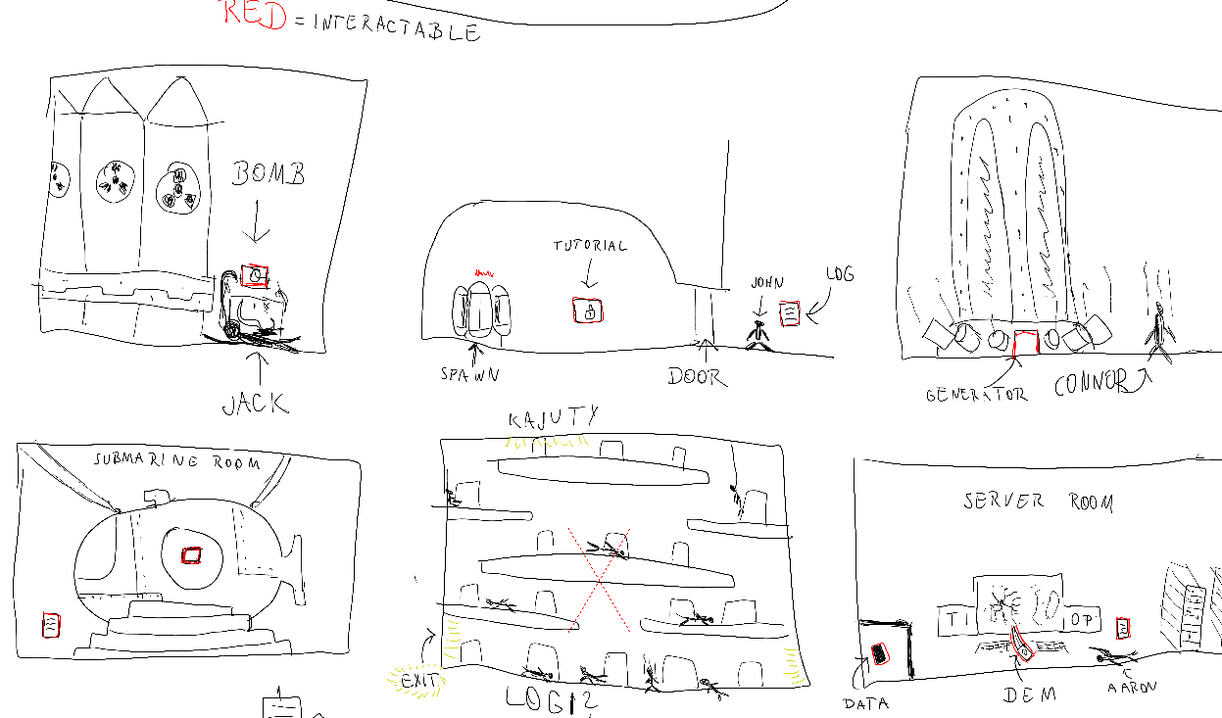
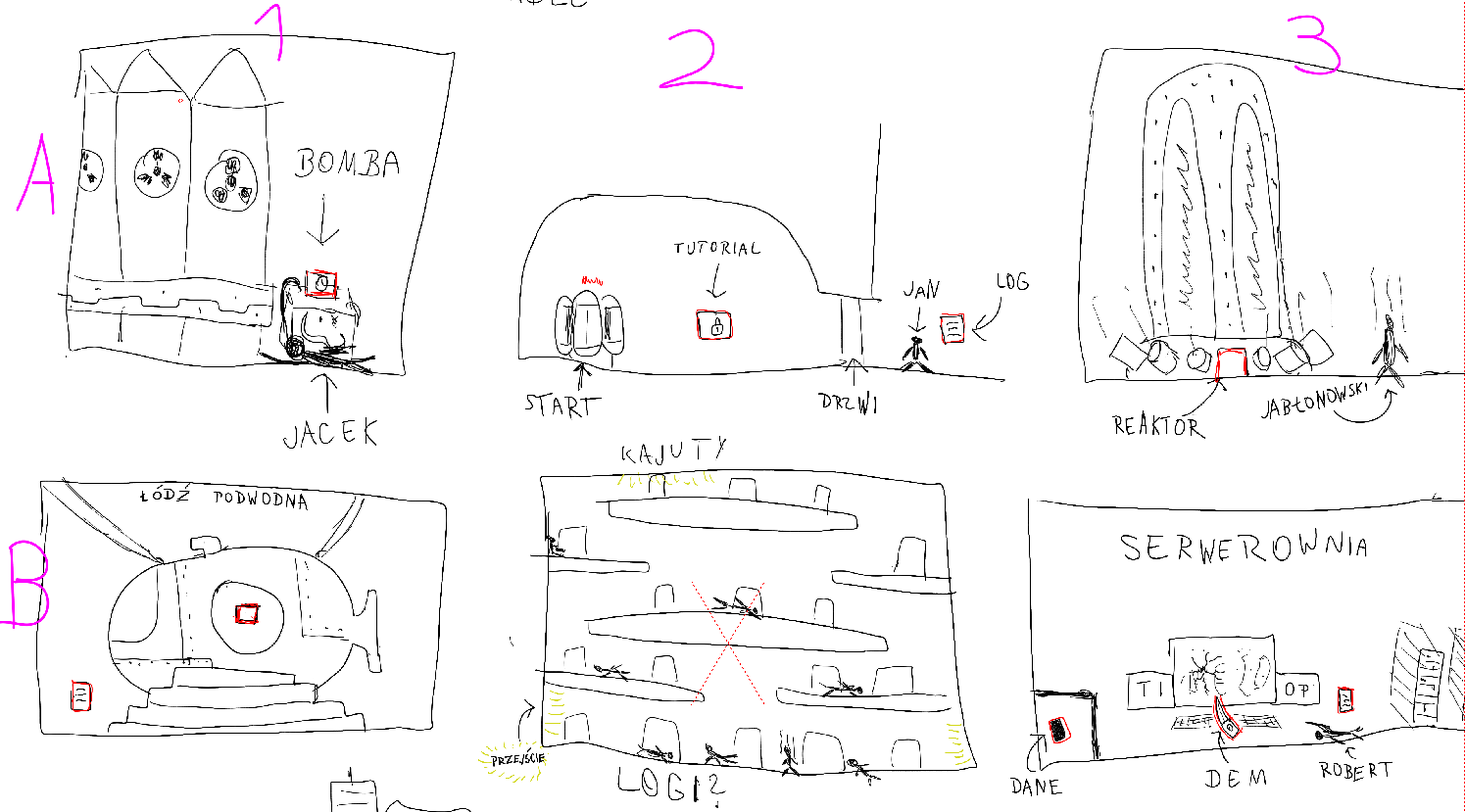
Update GDD

diff --git a/docs/Augmented Unit - GDD.md b/docs/Augmented Unit - GDD.md
@@ -13,16 +13,18 @@ Augmented Unit
 
 ### Gatunki
 
-Gra będzie pomieszaniem gatunków gier narracyjnych i metroidvanii.
-Gra narracyjna, bo silny nacisk będzie kładzony na fabułę i narrację środowiskową, z gatunku metroidvanii zapożyczona zostanie struktura poziomów i sposób postępu w grze.
+Gra będzie pomieszaniem gatunków gier narracyjnych i metroidvanii, w postaci dwuwymiarowej platformówki z widokiem od boku.
+Skupimy się na narracji (bezpośredniej w postaci logów i środowiskowej).
+Z metroidvanii zapożyczony zostanie sposób postępu — cała mapa będzie w teorii dostępna od samego początku, jednak dostanie się do niektórych sekcji, może wymagać wcześniejszego zebrania modyfikacji. Modyfikacje te permanentnie odblokują dla gracza umiejętności, które mogą pomóc dostać się we wcześniej niedostępne miejsca, nawet te widziane kilka sekcji wcześniej.
 
 ### Odbiorcy
 
-Docelową grupą odbiorców gry będą ludzie zaznajomieni z grami, w wieku około 16 do 30 lat, lub ludzie zainteresowani historiami opowiedzianymi nie wprost, z nutką niepokoju.
+Docelową grupą odbiorców gry będą ludzie zaznajomieni z grami, w wieku około 16 do 30 lat, zainteresowani historiami opowiedzianymi nie wprost, z nutką niepokoju.
 
 ### Plaforma i wymagania sprzętowe
 
 <!-- Wymagania pożyczone z gry dead cells - podobnej graficznie i poniekąd gameplay'owo do naszej gry -->
+Przewidywane wymagania sprzętowe, na podstawie wymagań podobnych tytułów:
 
 Aspekt | Minimalne: | Zalecane:
 ---|---|---
@@ -35,7 +37,11 @@ Dodatkowe uwagi | DirectX 9.1+ lub OpenGL 3.2+ | DirectX 9.1+ lub OpenGL 3.2+
 
 ### Monetyzacja
 
-Gra zostanie wypuszczona w modelu free-to-play (darmowa), aby zachęcić graczy do zagrania w nią i aby zdobyć odrobinę rozgłosu na rynku. Później mogą zostać wydane płatne dodatki do gry, które rozwiną grę o opcjonalne poziomy i poszerzą historię świata.
+Gra zostanie wypuszczona w modelu free-to-play (darmowa), aby zachęcić graczy do zagrania w nią i aby zdobyć odrobinę rozgłosu na rynku. Później mogą zostać wydane płatne dodatki do gry, które rozwiną ją o opcjonalne poziomy i poszerzą historię świata.
+
+### Repozytorium
+
+Aktualna wersja dokumentacji, jak i cały kod źródłowy gry są dostępne na GitHubie ([link do aktualnego GDD](https://github.com/Daxin18/AugmentedUnit/blob/main/docs/Augmented%20Unit%20-%20GDD.md))
 
 ## Tematyka i osadzenie gry
 
@@ -47,92 +53,92 @@ Z uwagi na gatunek gry (metroidvania) cały statek będzie jedną, dużą mapą,
 Sekcje, które będziemy mogli znaleźć w grze:
 Nazwa | Obowiązkowy | Modyfikacja | Logi | Opis
 ---|---|---|---|---
-Pokład statku | Y | krzyk | - | przeszkody w postaci pseudo-losowych uderzeń piorunów czy powiewów wiatru
-Kajuty załogi | Y | double-jump | DUŻO, przybliżające historię postaci | skrót do innych rejonów, ale jest w nim dużo trupów, które w końcowym etapie gry uniemożliwią przejście przez ten sektor
-Magazyn | Y | dash | Kilka, pozwalające zapoznać się z postaciami | początkowa sekcja, w niej znajdziemy przejścia do dodatkowych poziomów i kilka podstawowych informacji, oraz drogi blokowane przez działka automatyczne
-Reaktor | N | - | Kilka, pogłębienie problemów psychicznych postaci | ukryty koło ostatniej sekcji, pozwala wyłączyć zasilanie - działkom blokującym inne opcjonalne pokoje i łodzi podwodnej
+Pokład statku | Y | krzyk | Znikome | przeszkody w postaci pseudo-losowych uderzeń piorunów czy powiewów wiatru
+Kajuty załogi | Y | podwójny skok | DUŻO, przybliżające historię postaci | skrót do innych rejonów, ale jest w nim dużo trupów, które w końcowym etapie gry uniemożliwią przejście przez ten sektor
+Magazyn | Y | zryw | Kilka, pozwalające zapoznać się z postaciami | początkowa sekcja, w niej znajdziemy przejścia do dodatkowych poziomów i kilka podstawowych informacji, oraz drogi blokowane przez działka automatyczne
+Reaktor | N | - | Kilka, pogłębienie problemów psychicznych postaci | ukryty koło ostatniej sekcji, pozwala wyłączyć zasilanie działkom blokującym inne opcjonalne pokoje
 Serwerownia | Y | DEM (Deus Ex Machina) | DUŻO, silniejsze podpowiedzi na pętlę czasu i możliwość wysadzenia statku | pokój z logami bezpieczeństwa, które mogą nakierować gracza na prawdziwe zakończenie gry, końcowa część gry, cutscenki tutaj
-Zbrojownia | N | - | Kilka, ostatni log Jack'a i kilka o tym, po co nam broń nuklearna | w nim, z użyciem kodów z serwerowni, można aktywować bombę nuklearną, która rozpocznie odliczanie do samozniszczenia
-Pokój z łodzią podwodną (submarine) | N | - | Dwa, mówiące, po co łódź i że może przetrwać wybuch nuklearny | dzięki niemu można uciec ze statku po tym, jak uruchomimy bombę, łódź potrzebuje zasilania i kodu bezpieczeństwa
+Zbrojownia | N | - | Kilka, ostatni log Jacka i kilka o tym, po co nam broń nuklearna | w nim można aktywować bombę nuklearną, która rozpocznie odliczanie do samozniszczenia
+Pokój z łodzią podwodną (Submarine) | N | - | Dwa, mówiące, po co łódź i że może przetrwać wybuch nuklearny | Dzięki łodzi można uciec ze statku po tym, jak uruchomimy bombę, z łodzi można skorzystać tylko, jeśli alarm został uruchomiony, ale potrzebuje ona zasilania
 Pokój treningowy | Y | Narrator | Jeden, przykład mechaniki | Pokój, do którego jesteśmy teleportowaniu w ramach samouczka, będzie początkowo pokojem developerskim, w którym później umieścimy samouczek
-
 
 ### Fabuła
 
 #### Wprowadzenie
 
-Gracz jest robotem (AU - Augmented Unit), który aktywuje się (wychodząc z kapsuły) w szczelnie zamkniętym pomieszczeniu. Dowiaduje się tutaj o swoim celu - zabezpieczeniu tajnych danych znajdujących się na statku. Po diagnozie systemów (tutorial) AU dostaje moduł odczytywania logów (narratora), a wyjście się otwiera i AU zostaje wypuszczony na statek, aby wypełnić swój cel.
+Gracz jest robotem (AU - Augmented Unit), który aktywuje się (wychodząc z kapsuły) w szczelnie zamkniętym pomieszczeniu. Dowiaduje się tutaj o swoim celu - zabezpieczeniu tajnych danych znajdujących się na statku. Po diagnozie systemów (tutorial) AU dostaje moduł odczytywania logów (narratora). Wyjście się otwiera i AU zostaje wypuszczony na statek, aby wypełnić swój cel.
 
-#### Suche fakty
+#### Fabularne fakty
 
-- STATEK
-    - statek dryfuje zniszczony na środku oceanu
-    - statek jest jednostką transportowo-badawczą
-    - statek przewozi broń nuklearną, tajne wojskowe dane oraz eksperymentalną broń
-    - statek jest napędzany generatorem
-    - statek nie jest już sprawny
-- AU
-    - AU - Augmented Unit
-    - AU jest robotem zdolnym do modyfikowania samego siebie, aby mógł wykonać swój cel
-    - celem AU jest odzyskiwanie i chronienie danych w sytuacjach kryzysowych
-    - AU jest zdolny do użycia DEM - eksperymentalnej broni, która pozwala na podróż w czasie
-        - przy wybraniu tej modyfikacji AU zostaje cofnięty w czasie i przestrzeni do momentu, gdy statek jeszcze funkcjonował - zostaje uruchomiony alarm
-        - AU zabija wszystkich na statku i wraca do swojej kapsuły, gdzie zostaje zresetowany i może zacząć cykl na nowo
-    - AU po uruchomieniu musi przejść test systemów (tutorial) i otrzymać narratora
-    - AU jest w stanie dowiedzieć się, co stało się na statku poprzez logi i rozmowy z CU
-- Postaci drugoplanowe
-    - Cleanup Unit (CU)
-        - CU to mały robot, który pojawia się chwilę za vaultem
-        - CU pomaga AU poprzez powiedzenie, że dane są w serwerowni
-        - CU generalnie będzie pojawiał się, gdy gracz spędzi za dużo czasu w jednym miejscu i nie będzie wiedział, co zrobić
-    - John
-        - Martwy żołnierz zaraz przed wejściem do vaulta (pokoju startowego)
+- Statek "Eterna"
+    - dryfuje zniszczony na środku oceanu,
+    - jest jednostką transportowo-badawczą,
+    - przewozi broń nuklearną, tajne wojskowe dane oraz eksperymentalną broń, nad którą prowadzone są badania,
+    - jest napędzany reaktorem, który zasila również jego systemy obronne
+- AU,
+    - AU — Augmented Unit,
+    - AU jest robotem zdolnym do modyfikowania samego siebie, aby mógł wykonać swój cel,
+    - celem AU jest odzyskiwanie i chronienie danych w sytuacjach kryzysowych,
+    - AU jest zdolny do użycia DEM — eksperymentalnej broni, która pozwala na podróż w czasie,
+        - przy wybraniu tej modyfikacji AU zostaje cofnięty w czasie i przestrzeni do momentu, gdy statek jeszcze funkcjonował,
+        - na statku zostaje uruchomiony alarm i wszyscy próbują zatrzymać AU niosącego ze sobą DEM,
+        - AU zabija wszystkich na statku i wraca do swojej kapsuły, gdzie zostaje zresetowany i może zacząć cykl na nowo,
+    - AU po uruchomieniu musi przejść test systemów (tutorial) i otrzymać narratora,
+    - AU jest w stanie dowiedzieć się, co stało się na statku poprzez logi i rozmowy z RP
+- Postaci drugoplanowe,
+    - Robot Porządkowy (RP)
+        - RP to mały robot, który pojawia się chwilę za pokojem, w którym AU się budzi,
+        - RP pomaga AU poprzez powiedzenie, że dane są w serwerowni,
+        - RP będzie pojawiał się, gdy gracz spędzi za dużo czasu w jednym miejscu i nie będzie wiedział, co zrobić
+    - Jan
+        - Martwy żołnierz zaraz przed wejściem do pokoju startowego,
         - Jedyny nie walczy z AU, jest przerażony,
-        - Jego log mówi o tym, że coś się zbliża, po czym słychać krzyk
-    - Aaron
-        - Naukowiec na wejściu do serwerowni
-        - Autor logów znajdowanych na mapie opisujących strukturę statku
-        - Twórca DEM
-        - Odizolowany od ludzi wizjoner, pasjonat postępu, który pragnie spokoju
+        - Jego log mówi o tym, że coś się zbliża, po czym słychać krzyk,
+        - Nie ma większego znaczenia dla fabuły w późniejszych etapach
+    - Robert
+        - Naukowiec na wejściu do serwerowni,
+        - Autor logów znajdowanych na mapie opisujących jego pracę,
+        - Twórca DEM,
+        - Odizolowany od ludzi wizjoner, pasjonat postępu, który pragnie tylko spokoju w swoim laboratorium,
         - Nielubiany przez resztę załogi z uwagi na jego obsesję na punkcie DEM,
-        - Statek istnieje, aby umożliwić mu pracę, wszyscy mieli go chronić
-    - Admirał Connor
-        - Główny dowódca wojsk
-        - Opisuje w logach broń na statku, konflikt, przez który powstaje DEM i cel ich misji
-        - Skupiony na pracy, stara się udawać, że nie ma życia poza statkiem
-        - Zostaje zabity w walce w generatorze
-        - Zabicie Szeregowego Jack' odbiło się na jego psychice i zaczął się po tym załamywać
-    - Szeregowy Jack
-        - Zwykły, szary żołnierz
+        - Statek istnieje, aby umożliwić mu pracę, wszyscy obecni mieli go chronić
+    - Admirał Jabłonowski
+        - Główny dowódca wojsk,
+        - Opisuje w logach broń na statku, konflikt, przez który powstaje DEM i cel ich misji,
+        - Skupiony na pracy, stara się udawać, że nie ma życia poza statkiem, dba o swoich żołnierzy,
+        - Zostaje zabity w walce w reaktorze,
+        - Zabicie Szeregowego Jacka odbiło się na jego psychice i zaczął się po tym załamywać
+    - Szeregowy Jacek
+        - Zwykły, szary żołnierz,
         - Nie lubi być na tym statku i wierzy, że eksperymentalna broń w końcu ich zabije,
-        - W logach opisuje to, jak bardzo chce się wyrwać z tego statku
-        - Naprowadza gracza na wysadzenie statku i ucieczkę łodzią podwodną
-        - Próbował sam odpalić bombę nuklearną, ale został zabity przez Admirała Connora po kilku ostrzeżeniach
+        - W logach opisuje to, jak bardzo chce się wyrwać z tego statku,
+        - Naprowadza gracza na wysadzenie statku i ucieczkę łodzią podwodną,
+        - Próbował sam odpalić bombę nuklearną, ale został zabity przez Admirała Jabłonowskiego po kilku ostrzeżeniach
 
 
 #### Logi 
 
 Nazwa | Osoba | Id* | Lokacja | Log
 ---|---|---|---|---
-Ostatnie słowa | John | John_1 | Magazyn | Coś tu jest nie tak, coś jest nie tak! Coś pojawiło się na statku... O Boże... idzie tu! To tu idzie! Aaaaaaa!!!!
-Po co to tu jest? | Aaron | Aaron_1 | Magazyn | Augmented Unit... Nie rozumiem, po co to tu trzymamy... To tak jakby ludzie oczekiwali, że ta cała operacja nie wypali, a tak nie będzie! Ale jeśli już... to lepiej, żeby ten robot odzyskał wszystkie dane, moja praca nie może przepaść!
-Ci ludzie... | Aaron | Aaron_2 | Magazyn | To niewiarygodne jak dużo trzeba gadać z tymi ludźmi, zanim cokolwiek dostanę z magazynu... Czy oni nie rozumieją, że w mojej pracy CZAS JEST KLUCZOWY?!
-Chociaż nie jest tak źle | Jack | Jack_1 | Magazyn | Warta w magazynie nie jest taka zła, mogę usiąść gdzieś w rogu i próbować zapomnieć o tym szaleństwie po drugiej stronie statku!
-Podziw: bronie | Connor | Connor_1 | Magazyn | Za każdym razem, gdy tu przychodzę, nie mogę się powstrzymać przed podziwianiem tej kolekcji broni... Ten statek to prawdziwe dzieło sztuki!
-Podziw: łódź podwodna | Connor | Connor_2 | Submarine | Ta łódź... to najcudowniejsza defensywna technologia na tym statku... ponoć może nawet przetrwać wybuch nuklearny!
-Na wszelki wypadek... | Jack | Jack_2 | Submarine | Ok... Jack... pamiętaj, łódź podwodna może być aktywowana TYLKO, jeśli alarm został odpalony i generator działa, pamiętaj, żeby wszystko przygotować, zanim coś zrobisz!
-Zrobiłem to... | Connor | Connor_3 | Kajuty | Zrobiłem to... Ja... Już go nie ma... I nikt nie wie... Tyl... Tylko ja mam dostęp do zbrojowni i... ja... zostawiłem go tam... Boże! [płacz]
-On musi z kimś porozmawiać | Connor | Connor_4 | Magazyn | On oszalał! Wczoraj gadał jakieś głupoty, a teraz włamał się do zbrojowni! Może ktoś musi z nim porozmawiać...
-Waga naszej misji | Connor | Connor_5 | Zbrojownia | Nasza misja jest ważna... to miejsce mi o tym przypomina... Jeden błąd, jeden atak i cały statek musi zostać wysadzony w powietrze! Tylko Admirał ma dostęp do tego pokoju, tylko Admirał ma kody... Tylko ja decyduję, co się stanie w przypadku ataku...
-Ostatnie życzenie | Jack | Jack_3 | Zbrojownia | To słowa pożegnalne... Jeśli ktoś czyta ten log, to znaczy, że znalazł go przy moim ciele i nie zdążyłem odpalić tej bomby... Proszę... upewnij się, że DEM zostanie zniszczony... To... to jest zbyt niebezpieczne, żeby ktokolwiek mógł tego używać...
-Dlaczego statek? | Aaron | Aaron_3 | Pokład | Czasami ludzie pytają się — czemu akurat statek? Czemu nie pracujesz na lądzie, czy w jakimś bunkrze? Odchodzę wtedy bez słowa... Oni nie potrafią pojąć, że woda... ona jest jak czas... płynie, pomaga zrozumieć tajniki jego działania... płynąć razem z nim, a może kiedyś... nawet pod prąd <!-- TODO: Czy to nie będzie zbyt wprost jak na to, że pokład to trzecia odwiedzana strefa? xd -->
-Ten szeregowy... | Aaron | Aaron_4 | Kajuty | Ten szeregowy, jak on miał... Janek? Nie ważne! Ostatnio zaczął się sporo koło mnie kręcić, podpytuje o postęp prac, próbuje dowiedzieć się czegoś o DEM... Zabiera mi tylko czas! Chociaż... Wydaje się faktycznie zainteresowany, może się jeszcze do czegoś przydać
-Nazywa to DEM | Jack | Jack_4 | Kajuty | Ostatnio wypytywałem Aarona o tę jego maszynkę... broń? Nie ważne! Nazywa to DEM, skrót od Deus Ex Machina, mówi, że to dlatego, że to tak jakby na nowo wynalazł czas i przestrzeń... Muszę dowiedzieć się więcej...
-Zaczynam się do niego przekonywać... | Aaron | Aaron_5 | Kajuty | Ten Janek zdaje się być coraz bardziej zainteresowany moimi badaniami... Kręci się przy serwerowni, dopytuje, przygląda się DEM, gdy jesteśmy w laboratorium... Powoli zaczynam się do niego przekonywać... może być dobrym pomocnikiem
-Jest łatwo, ale trzeba czasu | Jack | Jack_5 | Kajuty | Aaron... cały czas myli moje imię, ale bardzo łatwo wyciągnąć od niego informacje. Wystarczy rzucić kilka komplementów, zapytać o proste rzeczy i gość nie zamknie się na pół godziny! Nie podaje za dużo szczegółów o DEM, ale myślę, że będę mógł je wyciągnąć, jeśli trochę się koło niego pokręcę
-Jest bystry... ale nadal głupi | Aaron | Aaron_6 | Serwerownia | Z każdym dniem Janek zadziwia mnie coraz bardziej! Dzisiaj próbował dotknąć DEM __GOŁYMI RĘKAMI__! Wie przecież, że DEM nie jest jeszcze stabilny, a chciał sprawdzić, co się stanie, gdy spróbuje uderzyć to młotkiem! Powiedziałem mu, że jeśli chce cokolwiek zrobić tej broni, to potrzebowałby broni nuklearnej, a nie młotka! 
-Już wiem co robić! | Jack | Jack_6 | Serwerownia | Bingo! Walnąłem dziś to coś młotkiem i Aaron wygadał się o słabości DEM! Broń nuklearna... mamy jej tu nawet sporo w Zbrojowni, może jeśli wszystko wysadzę...
-Nie czuję się najlepiej | Jack | Jack_7 | Kajuty | Moja głowa... Odkąd uderzyłem DEM, czuję się... dziwnie... jakbym nie był sobą, wszystko mi się miesza, wszystko wydaje się obce, ten statek nie jest już taki, jak pamiętałem! <!-- Notka: Jack odczuwa efekty załamań czasu i czuje się dziwnie, bo pamięta swoje wspomnienia, których jeszcze nie ma(?) -->
+Ostatnie słowa | Jan | Jan_1 | Magazyn | Coś tu jest nie tak, coś jest nie tak! Coś pojawiło się na statku... O Boże... idzie tu! To tu idzie! Aaaaaaa!!!!
+Po co to tu jest? | Robert | Robert_1 | Magazyn | Augmented Unit... Nie rozumiem, po co to tu trzymamy... To tak jakby ludzie oczekiwali, że ta cała operacja nie wypali, a tak nie będzie! Ale jeśli już... to lepiej, żeby ten robot odzyskał wszystkie dane, moja praca nie może przepaść!
+Ci ludzie... | Robert | Robert_2 | Magazyn | To niewiarygodne jak dużo trzeba gadać z tymi ludźmi, zanim cokolwiek dostanę z magazynu... Czy oni nie rozumieją, że w mojej pracy CZAS JEST KLUCZOWY?!
+Chociaż nie jest tak źle | Jacek | Jacek_1 | Magazyn | Warta w magazynie nie jest taka zła, mogę usiąść gdzieś w rogu i próbować zapomnieć o tym szaleństwie po drugiej stronie statku!
+Podziw: bronie | Jabłonowski | Jab_1 | Magazyn | Za każdym razem, gdy tu przychodzę, nie mogę się powstrzymać przed podziwianiem tej kolekcji broni... Ten statek to prawdziwe dzieło sztuki!
+Podziw: łódź podwodna | Jabłonowski | Jab_2 | Submarine | Ta łódź... to najcudowniejsza defensywna technologia na tym statku... ponoć może nawet przetrwać wybuch nuklearny!
+Na wszelki wypadek... | Jack | Jack_2 | Submarine | Ok... Jacek... pamiętaj, łódź podwodna może być aktywowana TYLKO, jeśli alarm został już odpalony, a generator działa, pamiętaj, żeby wszystko przygotować, zanim coś zrobisz!
+Zrobiłem to... | Jabłonowski | Jab_3 | Kajuty | Zrobiłem to... Ja... Już go nie ma... I nikt nie wie... Tyl... Tylko ja mam dostęp do zbrojowni i... ja... zostawiłem go tam... Boże! [płacz]
+On musi z kimś porozmawiać | Jabłonowski | Jab_4 | Magazyn | On oszalał! Wczoraj gadał jakieś głupoty, a teraz włamał się do zbrojowni! Może ktoś musi z nim porozmawiać...
+Waga naszej misji | Jabłonowski | Jab_5 | Zbrojownia | Nasza misja jest ważna... to miejsce mi o tym przypomina... Jeden błąd, jeden atak i cały statek musi zostać wysadzony w powietrze! Tylko Admirał ma dostęp do tego pokoju, tylko Admirał ma kody... Tylko ja decyduję, co się stanie na wypadek ataku...
+Ostatnie życzenie | Jack | Jack_3 | Zbrojownia | To słowa pożegnalne... Jeśli ktoś czyta ten log, to znaczy, że znalazł go przy moim ciele i coś poszło nie tak... Proszę... upewnij się, że DEM zostanie zniszczony... To... to jest zbyt niebezpieczne, żeby ktokolwiek mógł tego używać...
+Dlaczego statek? | Robert | Robert_3 | Pokład | Czasami ludzie pytają się — czemu akurat statek? Czemu nie pracujesz na lądzie, czy w jakimś bunkrze? Odchodzę wtedy bez słowa... Oni nie potrafią pojąć, że pływając, dużo prościej jest pojąć naturę mojej pracy. Zrozumieć fenomen, który jest z nami cały czas, a którego nie dostrzegamy!
+Ten szeregowy... | Robert | Robert_4 | Kajuty | Ten szeregowy, jak on miał... Janek? Nie ważne! Ostatnio zaczął się sporo koło mnie kręcić, podpytuje o postęp prac, próbuje dowiedzieć się czegoś o DEM... Zabiera mi tylko czas! Chociaż... Wydaje się faktycznie zainteresowany, może się jeszcze do czegoś przydać.
+Nazywa to DEM | Jack | Jack_4 | Kajuty | Ostatnio wypytywałem Roberta o tę jego maszynkę... broń? Nie ważne! Nazywa to DEM, skrót od Deus Ex Machina, mówi, że to dlatego, że to tak jakby na nowo wynalazł czas i przestrzeń... Muszę dowiedzieć się więcej...
+Zaczynam się do niego przekonywać... | Robert | Robert_5 | Kajuty | Ten Janek zdaje się być coraz bardziej zainteresowany moimi badaniami... Kręci się przy serwerowni, dopytuje, przygląda się DEM, gdy jesteśmy w laboratorium... Powoli zaczynam się do niego przekonywać... może być dobrym pomocnikiem
+Jest łatwo, ale trzeba czasu | Jack | Jack_5 | Kajuty | Robert... cały czas myli moje imię, ale bardzo łatwo wyciągnąć od niego informacje. Wystarczy rzucić kilka komplementów, zapytać o proste rzeczy i gość nie zamknie się na pół godziny! Nie podaje za dużo szczegółów o DEM, ale myślę, że będę mógł je wyciągnąć, jeśli trochę się koło niego pokręcę
+Jest bystry... ale nadal głupi | Robert | Robert_6 | Serwerownia | Z każdym dniem Janek zadziwia mnie coraz bardziej! Dzisiaj próbował dotknąć DEM __GOŁYMI RĘKAMI__! Wie przecież, że DEM nie jest jeszcze stabilny, a chciał sprawdzić, co się stanie, gdy spróbuje uderzyć to młotkiem! Powiedziałem mu, że jeśli chce cokolwiek zrobić tej broni, to potrzebowałby broni nuklearnej, a nie młotka! 
+Już wiem co robić! | Jack | Jack_6 | Serwerownia | Bingo! Walnąłem dziś to coś młotkiem i Robert wygadał się o słabości DEM! Broń nuklearna... mamy jej tu nawet sporo w Zbrojowni! Może jeśli wszystko wysadzę...
+Nie czuję się najlepiej | Jack | Jack_7 | Kajuty | Moja głowa... Odkąd uderzyłem DEM, czuję się... dziwnie... jakbym nie był sobą, wszystko mi się miesza, wszystko wydaje się obce, ten statek nie jest już taki, jak pamiętałem! <!-- Notka: Jacek odczuwa efekty załamań czasu i czuje się dziwnie, bo pamięta swoje wspomnienia z przyszłości, których jeszcze nie doświadczył(?) -->
 ??? | ??? | ??? | ??? | ???
 
 *Id może się zmienić, zorganizujemy to, gdy wszystkie logi będą napisane
@@ -150,7 +156,7 @@ Augmented Unit — uniwersalny robot odpowiedzialny za przechowywanie sekretów 
 
 #### NPC
 
-Cleanup Unit (CU) - mały robot, który pomaga graczowi, jeśli ten spędzi za dużo czasu w jednym obszarze nie wykonując żadnej akcji
+Robot Porządkowy (RP) - mały robot, który pomaga graczowi, jeśli ten spędzi za dużo czasu w jednym obszarze nie wykonując żadnej konkretnej akcji
 
 ## Rozgrywka i mechaniki
 
@@ -166,8 +172,8 @@ Postać gracza będzie kontrolowana za pomocą klawiatury (i myszy?) lub (opcjon
 Podstawowe sterowanie zostało przedstawione poniżej:
 
 - __AD__ - poruszanie się lewo-prawo
-- __Space__ - skok [dodatkowo double-jump - modyfikacja]
-- __LShift__ - dash (modyfikacja)
+- __Spacja__ - skok [dodatkowo podwójny skok — jako modyfikacja]
+- __LShift__ - zryw (modyfikacja)
 - __E__ - interakcja
 - __LPM__ - DEM (ostatnia modyfikacja, atak mieczem)
 - __Q__ - krzyk (modyfikacja)
@@ -178,9 +184,11 @@ Z uwagi na gatunek gry (narracyjna), nie będzie ona wspierała gry wieloosobowe
 
 ## Przebieg gry (flow)
 
-### Mockup splashscreenów
+### Główny splashscreen
 
-![initial splash screen with animation-transition to Menu](images/image-1.png)
+Na tym etapie jedynie jako Concept-art
+
+![podstawowy splashscreen](images/image-1.png)
 
 ### Cutscenki, narracja in-game'owa
 
@@ -189,13 +197,17 @@ Z uwagi na gatunek gry (narracyjna), nie będzie ona wspierała gry wieloosobowe
 
 ### Menu
 
-Menu będzie animowanym przybliżeniem splashscreena z opcjami wyświetlanymi na monitorze (in-game hud)
+Menu będzie animowanym przybliżeniem splashscreena z opcjami wyświetlanymi na monitorze (in-game hud).
+Poniżej można zobaczyć concept-art menu
 
-![alt text](images/image-2.png)
+![concept-art menu](images/image-2.png)
 
 ### HUD
 
-TODO
+Bardzo ograniczony, aby nie rozpraszać gracza.
+Prawdopodobnie ograniczymy go co najwyżej do ikonek reprezentujących dostępne modyfikacje i ewentualnego licznika czasu.
+
+Nic konkretnego nie zostało ustalone, założenia co do HUDu mogą się zmienić
 <!-- TODO: chcemy cokolwiek? Jakieś liczniki na cooldown modyfikacji? -->
 
 ### Mapy
@@ -204,12 +216,12 @@ Statek będzie jedną wielką mapą, na której każda [sekcja](#lokacje) będzi
 
 Gracz powinien w domyśle odwiedzić pokoje w następującej kolejności:
 1. Pokój treningowy (tutorial)
-2. Magazyn
-3. Kajuty
-4. Pokład statku
-5. Serwerownia
+2. Magazyn (__M__)
+3. Kajuty (__K__)
+4. Pokład statku (__P__)
+5. Serwerownia (__S__)
 
-Pokoje opcjonalne nie zostały tu uwzględnione, jednak gracz od samego początku będzie miał z Magazynu dostęp do Pokoju z łodzią podwodną, z Serwerowni będzie mógł dość łatwo dostać się do Reaktora, a po jego wyłączeniu cofnąć się i przez Magazyn wrócić do Zbrojowni.
+Pokoje opcjonalne nie zostały tu uwzględnione, jednak gracz od samego początku będzie miał z Magazynu dostęp do Pokoju z łodzią podwodną (__miniaturka łodzi, pod Magazynem__), z Serwerowni będzie mógł dość łatwo dostać się do Reaktora (__R__), a po jego wyłączeniu cofnąć się i przez Magazyn wrócić do Zbrojowni (__Z__).
 
 ![Mapa statku](./images/ship-map.png)
 
@@ -218,17 +230,17 @@ Pokoje opcjonalne nie zostały tu uwzględnione, jednak gracz od samego początk
 ### Styl graficzny
 
 Gra będzie tworzona jako pixelart o (podstawowych) rozmiarach 16x16px.
-Będą dominowały tutaj kolory raczej przyciemnione tak, aby postaci, logi, czy platformy wyróżniały się od otoczenia.
-Całość będzie wyglądała raczej mrocznie (klimat grafiki podobny do gry `Signalis`, a ogólny wygląd/feeling do gry `Dead Cells` albo `Hollow Knight`)
+Będą dominowały tutaj kolory raczej przyciemnione, tak aby postaci, logi, czy platformy wyróżniały się od otoczenia.
+Całość będzie wyglądała raczej mrocznie (klimat grafiki podobny do gry `Signalis`, a ogólny wygląd/feeling do gry jak w `Dead Cells` albo `Hollow Knight`)
 
 ### Concept-art
 
 Na poniższym zrzucie ekranu widać pierwsze concept-arty kilku pokoi (fragmentów sektorów/lokacji), które są istotne fabularnie. Są to:
 
-x | 1 | 2 | 3
+- | 1 | 2 | 3
 ---|---|---|---
-1 | Zbrojownia - miejsce z bombami | Pokój startowy | Reaktor/generator
-2 | Pokój z łodzią podwodną | Kajuty | Ostatni pokój w serwerowni
+A | Zbrojownia - miejsce z bombami | Pokój startowy | Reaktor
+B | Pokój z łodzią podwodną | Kajuty | Ostatni pokój w serwerowni
 
 ![Concept-art pomieszczeń kluczowych dla narracji](./images/concept-art-rooms.png)
 
@@ -254,16 +266,24 @@ Treść wszystkich logów (będących jedyną formą narracji w grze) znajduje s
 
 ## PoC/prototyp
 
-Prototyp przedstawia podstawowe sterowanie w grze (surowa wersja — do dostosowania) oraz pokój.
-Został skonstruowany z użyciem starych assetów i nie reprezentuje finalnej wersji gry.
+Na potrzeby prototypu przygotowane zostaną:
+- Postać gracza (z całą maszyną stanów i mechanikami, ale tylko prostymi assetami), mechaniki/stany:
+    - skok (+ podwójny skok i "coyote time" - możliwość skoku przez krótką chwilę po opuszczeniu platformy)
+    - zryw (szybki ruch w lewo lub prawo, przez krótki moment ignoruje grawitację)
+    - krzyk (pozwalający zresetować momentum i przywracający wszystkie zdolności)
+    - ruch
+    - spadanie
+    - stanie w miejscu
+    - śmierć
+- Specjalny pokój (później przerobiony na pokój developerski i finalnie na tutorial)
+- Bazowy "prefab" logów z prostym dźwiękiem i tymczasową grafiką
+- Wyjście z pokoju (kończące grę, służące później jako drzwi między sekcjami — poziomami)
+- Przeszkoda zabijająca gracza
+- (Opcjonalnie) ruchoma platforma
 
-Wszystkie sceny, assety i skrypty prototypu znajdują się bezpośrednio w folderze `res://PoC/everything_goes_here`.
+## Implementacja - do uzupełnienia w późniejszych fazach*
 
-## Implementacja
-
-### Układ plików gry
-
-TODO
+*prototyp nie jest jeszcze finalną wersją gry, nie warto więc zamieszczać tu szczegółów implementacyjnych
 
 ### Byty (entity) i ich parametry
 
@@ -273,30 +293,32 @@ TODO
 
 TODO
 
-### Moyfikacje
+### Modyfikacje
 
-TODO
+- __Podwójny skok__ — pozwala wykonać jeden dodatkowy skok w powietrzu
+- __Zryw__ — pozwala bardzo szybko przemieścić się horyzontalnie i przejść przez miejsca niemożliwe do pokonania z użyciem samego skoku
+- __Krzyk__ — pozwala zatrzymać się w miejscu na jakiś czas (niezależnie od grawitacji, prędkości itp.), odnawia Zryw i podwójny skok bez potrzeby dotknięcia platformy.
 
 ### Common/utils/narzędzia
 
 TODO
 
-### TODO?
+### TODO? - w trakcie implementacji mogą pojawić się kolejne sekcje warte opisania
 
 ## Zakres projektu
 
 ### harmonogram i podział prac
 
 Przy każdym zadaniu znajdzie się jedna z trzech liter, która oznacza, przez kogo zostało ono wykonane:
-- B — both, oboje
+- O — oboje
 - K — Kamil
 - M — Mateusz
 
 Zadania będą przypisane konkretnym tygodniom i uzupełniane na bieżąco w poniższej liście
 
 - __Tydzień 1 (29.02.2024 - 07.03.2024)__
-    - __(B)__ Przygotowanie wstępnej wersji GDD i ogólnej wizji gry
-    - __(B)__ Przygotowanie concept-artów
+    - __(O)__ Przygotowanie wstępnej wersji GDD i ogólnej wizji gry
+    - __(O)__ Przygotowanie concept-artów
     - __(K)__ Przygotowanie ogólnego zarysu fabuły
     - __(M)__ Research podobnych historii i inspiracji do napisania szczegółowej fabuły
     - __(K)__ Wstępne napisanie kilku logów
@@ -306,10 +328,13 @@ Zadania będą przypisane konkretnym tygodniom i uzupełniane na bieżąco w pon
     - __(M)__ Stworzenie pierwszych projektów poziomów
     - __(K)__ Przygotowanie repozytorium i projektu gry w silniku
     - __(K)__ Kontynuowanie pracy nad fabułą i logami
-    - __(B)__ Aktualizowanie GDD
+    - __(O)__ Aktualizowanie GDD
     - __(M)__ Przygotowanie pierwszych wersji części assetów i animacji
 - __Tydzień 3 (14.03.2024 - 21.03.2024)__
     - __(K)__ Dopracowanie prototypu
-    - __(B)__ Aktualizowanie GDD 
+    - __(O)__ Aktualizowanie GDD 
+    - __(M)__ Kontynuacja prac nad assetami
 - __Tydzień 4 (21.03.2024 - 28.03.2024)__
+- __Tydzień 5 (28.03.2024 - 04.04.2024)__
+- __Tydzień 6 (04.04.2024 - 11.04.2024)__
 - ...
